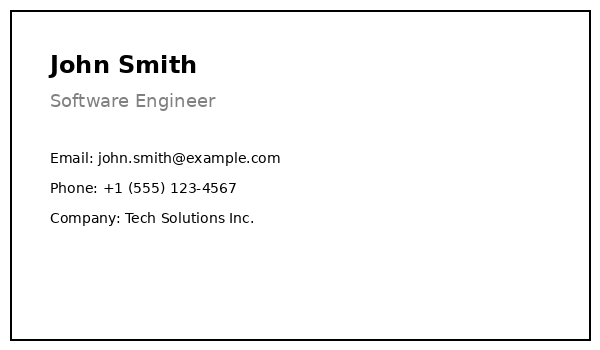
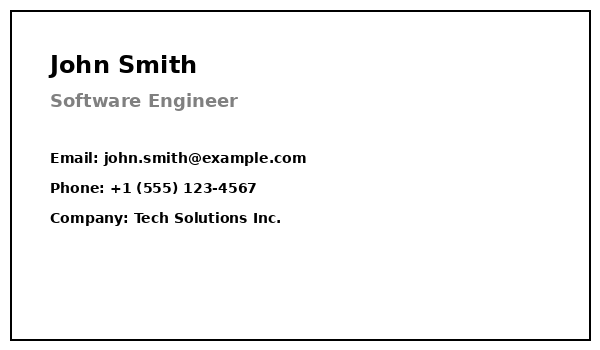
Fix cross-platform font loading and clarify function usage in README

diff --git a/generate_samples.py b/generate_samples.py
@@ -77,12 +77,30 @@ def create_sample_images():
     # Draw border
     draw1.rectangle([(10, 10), (590, 340)], outline='black', width=2)
     
-    # Add text
+    # Add text - Try multiple font paths for cross-platform compatibility
+    font_paths = [
+        "/usr/share/fonts/truetype/dejavu/DejaVuSans-Bold.ttf",  # Linux
+        "/System/Library/Fonts/Helvetica.ttc",  # macOS
+        "C:\\Windows\\Fonts\\Arial.ttf",  # Windows
+    ]
+    
     try:
-        # Try to use a default font, fallback to basic if not available
-        font_large = ImageFont.truetype("/usr/share/fonts/truetype/dejavu/DejaVuSans-Bold.ttf", 24)
-        font_medium = ImageFont.truetype("/usr/share/fonts/truetype/dejavu/DejaVuSans.ttf", 18)
-        font_small = ImageFont.truetype("/usr/share/fonts/truetype/dejavu/DejaVuSans.ttf", 14)
+        # Try to load fonts from different paths
+        font_large = None
+        for font_path in font_paths:
+            try:
+                font_large = ImageFont.truetype(font_path, 24)
+                font_medium = ImageFont.truetype(font_path, 18)
+                font_small = ImageFont.truetype(font_path, 14)
+                break
+            except:
+                continue
+        
+        # If no TrueType font found, use default
+        if font_large is None:
+            font_large = ImageFont.load_default()
+            font_medium = ImageFont.load_default()
+            font_small = ImageFont.load_default()
     except:
         font_large = ImageFont.load_default()
         font_medium = ImageFont.load_default()

diff --git a/README.md b/README.md
@@ -63,17 +63,7 @@ jupyter notebook
 
 ### Using the Python Function
 
-The core function `process_file_with_content_understanding(file_path)` can be used in your own scripts:
-
-```python
-from azure_content_understanding_demo import process_file_with_content_understanding
-
-# Process a file
-result = process_file_with_content_understanding("path/to/your/file.pdf")
-
-# Access the JSON response
-print(result)
-```
+The core function `process_file_with_content_understanding(file_path)` is defined in the Jupyter notebook. To use it in your own scripts, you can copy the function definition from the notebook into a standalone Python file, or run it directly within the notebook environment.
 
 ## Project Structure
 
